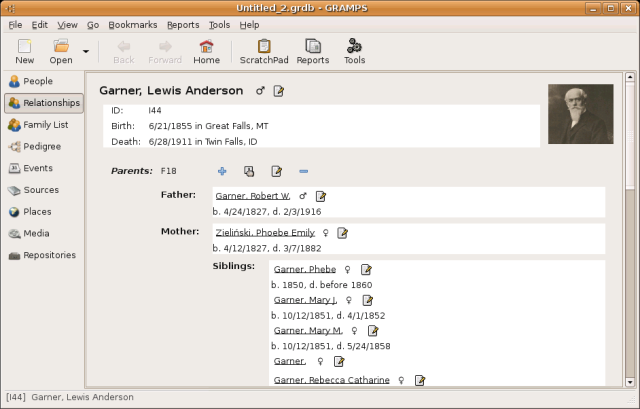
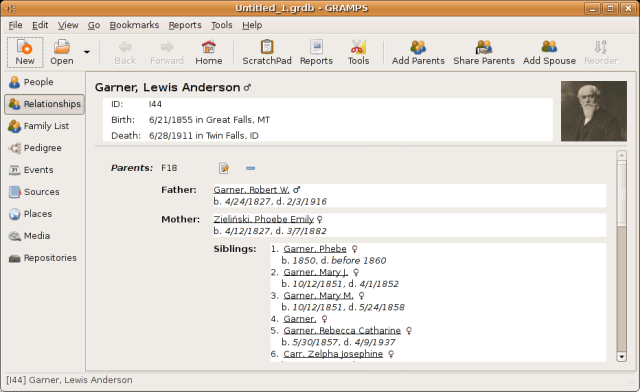
2006-11-22  Don Allingham  <don@gramps-project.org> 	* src/DataViews/_RelationView.py: remove unused button 	* help/C/figures/family.png: updated 	* help/C/figures/reorder.png: new image 	* help/C/gramps.xml: updates
svn: r7670

Changed region(s): [[0.0, 0.0, 1.0, 0.9796], [0.4688, 0.398, 0.5, 0.4286]]

diff --git a/gramps2/src/DataViews/_RelationView.py b/gramps2/src/DataViews/_RelationView.py
@@ -617,9 +617,9 @@ class RelationshipView(PageView.PersonNavView):
 #        add = GrampsWidgets.IconButton(call_fcn, None, gtk.STOCK_ADD)
 #        hbox.pack_start(add, False)
 
-        if is_parent:
-            add = GrampsWidgets.IconButton(self.select_family, None, gtk.STOCK_INDEX)
-            hbox.pack_start(add, False)
+#         if is_parent:
+#             add = GrampsWidgets.IconButton(self.select_family, None, gtk.STOCK_INDEX)
+#             hbox.pack_start(add, False)
 
         if family:
             edit = GrampsWidgets.IconButton(self.edit_family, family.handle, 
